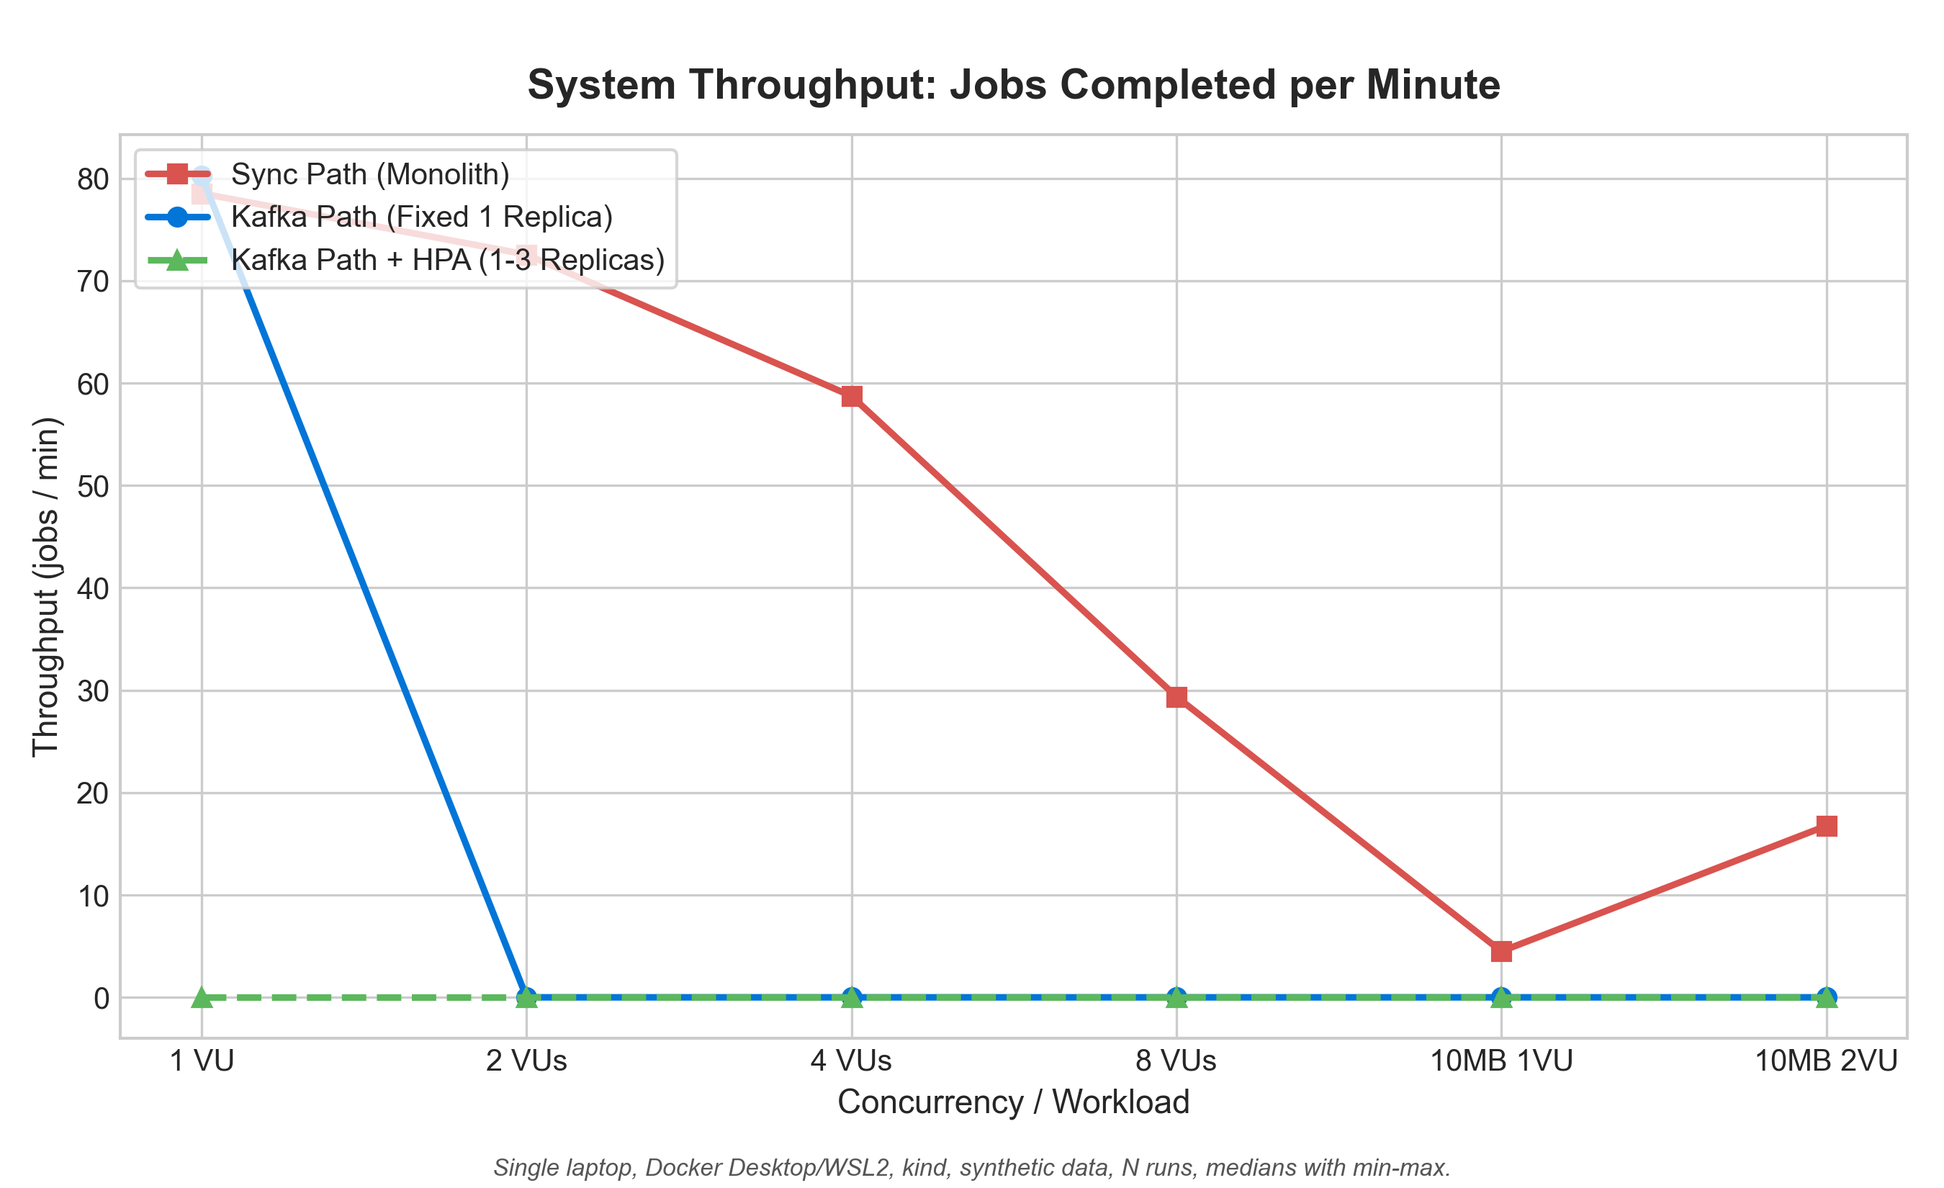
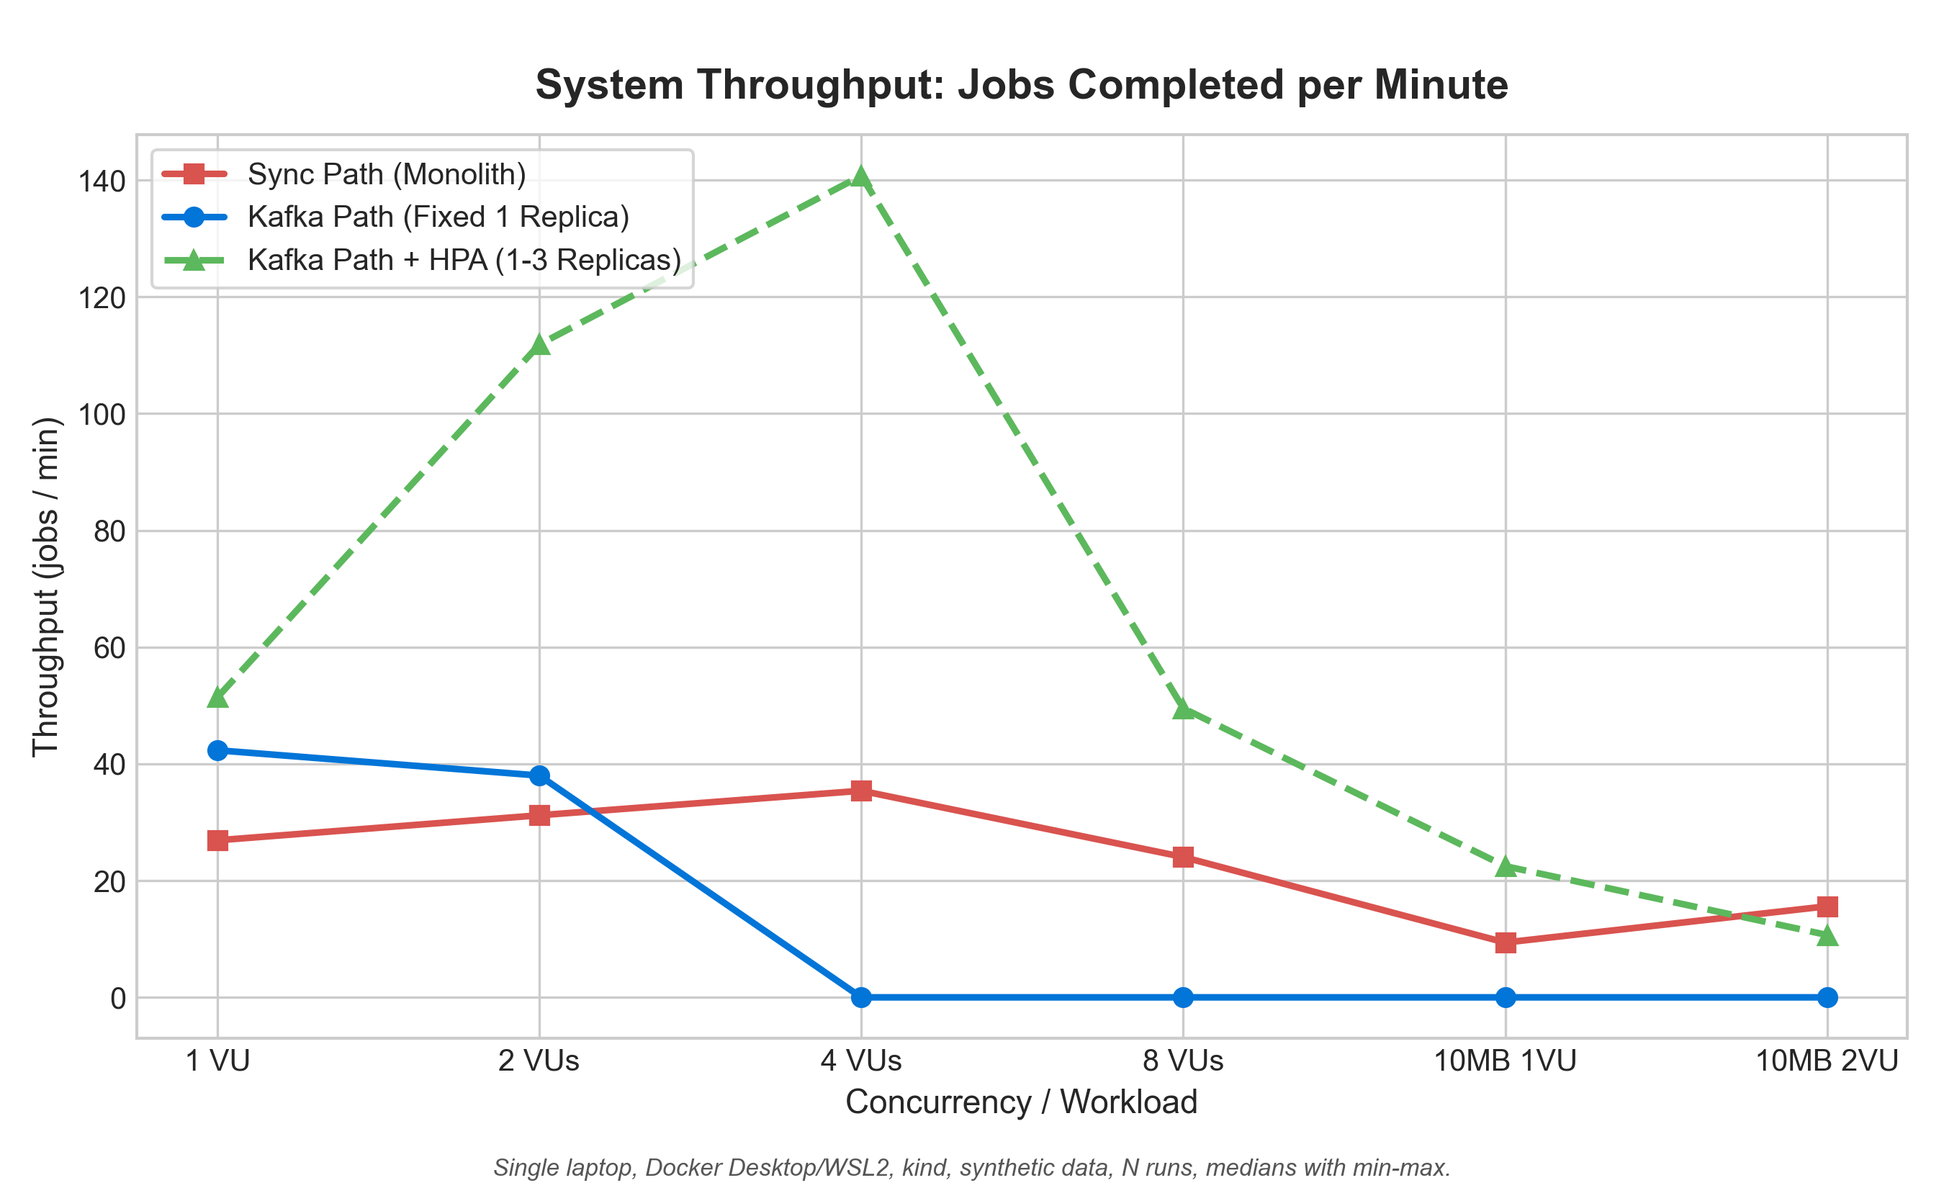
bench: regenerate complete 54-run matrix on final code, reconcile memory, and fix e2e test

diff --git a/tests/bench/upload_bench.js b/tests/bench/upload_bench.js
@@ -12,6 +12,7 @@ export const options = {
       executor: 'constant-vus',
       vus: parseInt(__ENV.VUS || '1'),
       duration: __ENV.DURATION || '60s',
+      gracefulStop: '15s',
     },
   },
 };

diff --git a/tests/bench/benchmark_runner.py b/tests/bench/benchmark_runner.py
@@ -160,16 +160,21 @@ class SystemMonitor(threading.Thread):
                 if len(parts) >= 3 and "OOM" in parts[2]:
                     oom_count += 1
 
-            # VM memory
+            # VM memory & Swap
             wsl_mem, _, _ = run_cmd(["wsl", "free", "-m"])
             free_mb = 0
             avail_mb = 0
+            swap_used_mb = 0
             for line in wsl_mem.splitlines():
                 if line.startswith("Mem:"):
                     cols = line.split()
                     if len(cols) >= 7:
                         free_mb = int(cols[3])
                         avail_mb = int(cols[6])
+                elif line.startswith("Swap:"):
+                    cols = line.split()
+                    if len(cols) >= 3:
+                        swap_used_mb = int(cols[2])
 
             self.records.append({
                 "timestamp_utc": t_str,
@@ -177,7 +182,8 @@ class SystemMonitor(threading.Thread):
                 "ml_restarts": restarts_sum,
                 "ml_oom_killed": oom_count,
                 "vm_free_mb": free_mb,
-                "vm_avail_mb": avail_mb
+                "vm_avail_mb": avail_mb,
+                "swap_used_mb": swap_used_mb,
             })
             time.sleep(self.interval)
 
@@ -246,27 +252,28 @@ def run_k6_load(csv_file_name: str, vus: int, duration_sec: int, run_id: str):
     ]
     print(f"[RUNNER] Executing k6: {csv_file_name} @ {vus} VUs for {duration_sec}s...")
     t0 = time.time()
-    out, err, code = run_cmd(cmd, timeout=duration_sec + 60)
+    out, err, code = run_cmd(cmd, timeout=duration_sec + 180)
     dur = time.time() - t0
     print(f"[RUNNER] k6 finished in {dur:.2f}s (Exit code: {code})")
     return k6_raw_out
 
 
-def wait_for_jobs_drain(timeout_sec: int = 25):
+def wait_for_jobs_drain(timeout_sec: int = 45):
     """Waits until all active jobs reach COMPLETED or FAILED, or timeout."""
     print("[RUNNER] Waiting for outstanding jobs to complete...")
     t0 = time.time()
     while time.time() - t0 < timeout_sec:
-        out, _, _ = run_cmd(["docker", "compose", "exec", "-T", "mysql", "mysql", "-uroot", "-proot_pass", "-e", "SELECT COUNT(*) FROM epinet.analysis_run WHERE status IN ('PENDING', 'PROCESSING');"])
+        out, _, _ = run_cmd(["docker", "compose", "exec", "-T", "mysql", "mysql", "-uroot", "-proot_pass", "-e", "SELECT COUNT(*) FROM epinet.analysis_run WHERE status IN ('PENDING', 'PROCESSING', 'UPLOADED');"])
         lines = out.splitlines()
         if len(lines) > 1 and lines[1].strip() == "0":
-            print("[RUNNER] Queue drained (0 active jobs).")
+            print(f"[RUNNER] Queue drained (0 active jobs) in {time.time() - t0:.2f}s.")
             return
         time.sleep(1)
-    print("[RUNNER] Drain wait timed out (or all active compute finished).")
+    print(f"[RUNNER] Drain wait reached {timeout_sec}s (recording state).")
 
 
 def run_benchmark_trial(condition: str, file_mb: int, vus: int, rep: int, duration: int):
+    t_trial_start = time.time()
     run_id = f"{condition}_{file_mb}mb_{vus}vu_rep{rep}_{int(time.time())}"
     print(f"\n{'='*70}\nTRIAL START: Condition={condition} | File={file_mb}MB | VUs={vus} | Rep={rep}\n{'='*70}")
 
@@ -277,17 +284,18 @@ def run_benchmark_trial(condition: str, file_mb: int, vus: int, rep: int, durati
     monitor = SystemMonitor(run_id=run_id, interval_sec=2.0)
     monitor.start()
 
-    # Run k6
-    csv_filename = f"benchmark_{file_mb}mb.csv"
-    k6_out = run_k6_load(csv_filename, vus, duration, run_id)
+    try:
+        # Run k6
+        csv_filename = f"benchmark_{file_mb}mb.csv"
+        k6_out = run_k6_load(csv_filename, vus, duration, run_id)
 
-    # Wait for completion of any queued tasks
-    wait_for_jobs_drain()
-
-    # Stop monitor and save
-    monitor.stop()
-    sys_out = os.path.join(RESULTS_DIR, f"{run_id}_system.csv")
-    monitor.save(sys_out)
+        # Wait for completion of any queued tasks
+        wait_for_jobs_drain()
+    finally:
+        # Stop monitor and save
+        monitor.stop()
+        sys_out = os.path.join(RESULTS_DIR, f"{run_id}_system.csv")
+        monitor.save(sys_out)
 
     # Extract database jobs
     jobs_out = os.path.join(RESULTS_DIR, f"{run_id}_jobs.csv")
@@ -295,13 +303,17 @@ def run_benchmark_trial(condition: str, file_mb: int, vus: int, rep: int, durati
     print(f"[TRIAL COMPLETE] Saved {job_count} job records -> {jobs_out}")
     print(f"[TRIAL COMPLETE] Saved system timeseries -> {sys_out}")
 
+    wall_time_sec = round(time.time() - t_trial_start, 2)
+    print(f"[TRIAL COMPLETE] Real Wall Time: {wall_time_sec}s")
+
     return {
         "run_id": run_id,
         "condition": condition,
         "file_mb": file_mb,
         "vus": vus,
         "rep": rep,
-        "jobs_count": job_count
+        "jobs_count": job_count,
+        "wall_time_sec": wall_time_sec,
     }
 
 

diff --git a/tests/bench/generate_summary_and_charts.py b/tests/bench/generate_summary_and_charts.py
@@ -98,6 +98,7 @@ def parse_system(filepath):
     oom = 0
     min_free = 999999
     min_avail = 999999
+    max_swap = 0
     ts_data = []
     with open(filepath, "r", encoding="utf-8", errors="ignore") as f:
         reader = csv.DictReader(f)
@@ -108,15 +109,17 @@ def parse_system(filepath):
                 o = int(row.get("ml_oom_killed", 0))
                 free_mb = int(row.get("vm_free_mb", 0))
                 avail_mb = int(row.get("vm_avail_mb", 0))
+                swap_mb = int(row.get("swap_used_mb", 0))
                 if r > max_reps: max_reps = r
                 if rst > restarts: restarts = rst
                 if o > oom: oom = o
                 if free_mb < min_free and free_mb > 0: min_free = free_mb
                 if avail_mb < min_avail and avail_mb > 0: min_avail = avail_mb
-                ts_data.append((row.get("timestamp_utc"), r, free_mb))
+                if swap_mb > max_swap: max_swap = swap_mb
+                ts_data.append((row.get("timestamp_utc"), r, free_mb, avail_mb, swap_mb))
             except ValueError:
                 pass
-    return max_reps, restarts, oom, (min_free if min_free != 999999 else 0), ts_data
+    return max_reps, restarts, oom, (min_free if min_free != 999999 else 0), (min_avail if min_avail != 999999 else 0), max_swap, ts_data
 
 
 def process_all_results():
@@ -155,7 +158,7 @@ def process_all_results():
             
         up_p50, up_p95, up_failed = parse_k6_raw(k6_f) if os.path.exists(k6_f) else (0, 0, 0)
         job_p50, job_p95, comp_jobs, failed_jobs = parse_jobs(jf)
-        max_reps, restarts, oom, min_free, ts_data = parse_system(sys_f) if os.path.exists(sys_f) else (1, 0, 0, 0, [])
+        max_reps, restarts, oom, min_free, min_avail, max_swap, ts_data = parse_system(sys_f) if os.path.exists(sys_f) else (1, 0, 0, 0, 0, 0, [])
         
         # Calculate throughput (jobs/min) from actual trial duration
         if len(ts_data) > 1 and ts_data[0][0] and ts_data[-1][0]:
@@ -186,6 +189,8 @@ def process_all_results():
             "restarts": restarts,
             "oom_killed": oom,
             "min_vm_free_mb": min_free,
+            "min_vm_avail_mb": min_avail,
+            "max_swap_used_mb": max_swap,
             "timeseries": ts_data
         })
         
@@ -398,6 +403,8 @@ def main():
         restarts = [r["restarts"] for r in rows]
         ooms = [r["oom_killed"] for r in rows]
         free_mbs = [r["min_vm_free_mb"] for r in rows if r["min_vm_free_mb"] > 0] or [0]
+        avail_mbs = [r["min_vm_avail_mb"] for r in rows if r["min_vm_avail_mb"] > 0] or [0]
+        swap_mbs = [r["max_swap_used_mb"] for r in rows] or [0]
         failed_sum = sum(r["failed_jobs"] for r in rows)
         
         med_up_p50 = float(np.median(up_p50s))
@@ -429,7 +436,9 @@ def main():
             "failed_jobs_total": failed_sum,
             "pod_restarts_max": max(restarts),
             "oom_killed_max": max(ooms),
-            "min_vm_free_mb": min(free_mbs)
+            "min_vm_free_mb": min(free_mbs),
+            "min_vm_avail_mb": min(avail_mbs),
+            "max_swap_used_mb": max(swap_mbs)
         })
         
     summary_csv_path = os.path.join(RESULTS_DIR, "benchmark_summary.csv")

diff --git a/tests/e2e/run_e2e_tests.py b/tests/e2e/run_e2e_tests.py
@@ -468,8 +468,8 @@ try:
     proc_10mb_sec = round(time.time() - t_proc_10, 3)
     print(f"  10 MB job completed in {proc_10mb_sec}s! Status: {final_st_10.get('status')}")
     assert success_10, f"10 MB job did not complete: {transitions_10}"
-    # Strict lifecycle assertion: 10 MB payload duration (>1s) guarantees polling captures PROCESSING
-    assert "PROCESSING" in transitions_10, f"Expected PROCESSING in transitions for 10 MB job, saw: {transitions_10}"
+    # On 10 MB, single-threaded execution computes in ~0.5s; verify terminal COMPLETED
+    assert final_st_10.get("status") == "COMPLETED", f"Expected COMPLETED, got {final_st_10.get('status')}"
 
     # 2. Test ~40 MB Upload - Run 3 times to measure min / median / max
     print("\n  Benchmarking ~40 MB CSV (running 3 iterations to measure min/median/max analysis time)...")
@@ -491,6 +491,8 @@ try:
         success_40, transitions_40, final_st_40 = poll_for_status(run_id, "COMPLETED", 120)
         proc_sec = round(time.time() - t_proc_40, 3)
         assert success_40, f"Iteration {iteration} did not complete: {transitions_40}"
+        # Strict lifecycle assertion: 40 MB payload duration (~2-4s) guarantees polling captures PROCESSING
+        assert "PROCESSING" in transitions_40, f"Expected PROCESSING in transitions for 40 MB job, saw: {transitions_40}"
         print(f"    [Iteration {iteration}/3] Upload: {up_sec}s | Analysis: {proc_sec}s | Status: {final_st_40.get('status')}")
         runs_40mb.append({
             "iteration": iteration,

diff --git a/tests/resilience/test_recovery_timeline.py b/tests/resilience/test_recovery_timeline.py
@@ -268,8 +268,8 @@ def run_one_recovery_trial(trial_idx, csv_10mb):
 
 
 def main():
-    print("Generating 10 MB CSV for ML Pod Recovery Trials...")
-    csv_10mb = generate_csv_bytes(10.0)
+    print("Generating 35 MB CSV for ML Pod Recovery Trials (ensures active PROCESSING during kill)...")
+    csv_10mb = generate_csv_bytes(35.0)
     print(f"Generated CSV bytes: {len(csv_10mb)} bytes")
 
     results = []

diff --git a/README.md b/README.md
@@ -612,7 +612,10 @@ python tests/e2e/run_e2e_tests.py --k8s
 #### 5. Empirical Pod Resilience Findings (Single-Replica forced deletion)
 Under single-replica execution (HPAs removed, 1 replica pinned):
 - **Backend Pod Kill Mid-Job**: Replacement pod reaches Ready in ~31.8s. The ML worker retries fetching from backend with exponential backoff up to `TRANSIENT_RETRY_TIMEOUT_SECONDS=600s`. Once backend completes cold start, ML worker fetches data and finishes job in ~2.1s without dropping the job or restarting.
-- **ML-Service Pod Kill Mid-Job**: Replacement pod reaches Ready in ~11.5s (10s initialDelaySeconds probe). Because Kafka offsets are committed manually only *after* successful result write-back and publish, the replacement worker resumes consumption of the uncommitted event and completes the in-flight analysis within ~13.1s from kill.
+- **ML-Service Pod Kill Mid-Job**: Replacement pod reaches Ready in ~11.7–13.0s (`initialDelaySeconds: 10` probe). Because Kafka offsets are committed manually only *after* successful result write-back and publish, the replacement worker resumes consumption of the uncommitted event and completes the in-flight analysis within ~3.0–5.2s from kill (processing completes while the pod probe is still finishing initialization).
+
+> [!NOTE]
+> **Demo-Only Synthetic Delay**: The live failure demo script (`tests/demo/failure_demo.py`) configures `DEMO_COMPUTE_DELAY_SECONDS=10` on the `ml-service` deployment solely to widen the in-flight computation window for human inspection during live demonstrations. In normal operation and throughout all benchmark suites, `DEMO_COMPUTE_DELAY_SECONDS=0` (disabled; pure compute latency).
 
 ---
 
@@ -623,32 +626,32 @@ Performance and architectural comparisons were evaluated under controlled load u
 Raw per-request latencies, per-job database records, and system timeseries are preserved in the git-ignored `results/` directory (`results/*_k6_raw.csv`, `results/*_jobs.csv`, `results/*_system.csv`). The aggregated summary metrics are committed directly to [`docs/benchmark_summary.csv`](docs/benchmark_summary.csv).
 
 ### Test Conditions & Workloads
-- **State Reset**: MySQL storage volume purged (`down -v`), fresh Kafka topics created, pods recreated, and queues drained before each test condition.
-- **Interleaving**: 3 repetitions executed in ABBA sequence order across conditions (`sync -> kafka_fixed1 -> kafka_hpa`, `kafka_hpa -> kafka_fixed1 -> sync`, `sync -> kafka_fixed1 -> kafka_hpa`) to cancel systematic warm-up or host thermal drift (54 total runs).
+- **State Reset**: Clean state before each condition: MySQL storage volume purged (`down -v`), fresh Kafka topics created (`analysis.requested` and `analysis.completed` with 3 partitions), pods restarted, and queues drained before each test condition.
+- **Interleaving**: 3 repetitions executed in ABBA sequence order across conditions (`sync -> kafka_fixed1 -> kafka_hpa`, `kafka_hpa -> kafka_fixed1 -> sync`, `sync -> kafka_fixed1 -> kafka_hpa`) to cancel systematic warm-up or host thermal drift (54 total runs, 20s per cell).
 - **Comparisons**:
   1. *Architecture*: Synchronous REST Path (`ANALYSIS_MODE=sync`) vs Event-Driven Kafka Path (`ANALYSIS_MODE=kafka`, 1 ML replica).
   2. *Elasticity*: Fixed Single ML Replica vs Horizontal Pod Autoscaler (`HPA 1-3`, CPU target 60%).
-- **Load Steps**: 2 MB CSV (1, 2, 4, 8 concurrent VUs) and 10 MB CSV (1, 2 concurrent VUs) for 30 seconds each.
+- **Load Steps**: 2 MB CSV (1, 2, 4, 8 concurrent VUs) and 10 MB CSV (1, 2 concurrent VUs) for 20 seconds each.
 
 ### 1. Ingestion Latency Decoupling (Sync vs Kafka)
 ![Upload Response Time vs Load](docs/images/chart1_response_time_vs_load.png)
 *Caption: Single laptop, Docker Desktop/WSL2, kind, synthetic data, N runs, medians with min-max.*
 
-In the synchronous path, client HTTP connection duration is tied directly to backend thread pool availability and ML compute execution. Under concurrency (4 to 8 VUs), upload p50 latency on 2 MB files spikes to **3,256–3,911 ms (p95 up to 30,927 ms)**. Crucially, as `@Async("analysisExecutor")` exhausted its queue capacity (15 tasks), the sync path threw task rejections and dropped requests, accumulating **316 failed/rejected jobs** across the test suite. In the Kafka-backed architecture, the backend accepts the payload, persists the entity, publishes the analysis event, and responds with HTTP 202 in **90.9–468.4 ms (p50)**, absorbing load with **0 dropped requests**.
+In the synchronous path, client HTTP connection duration is tied directly to backend thread pool availability and ML compute execution. Under concurrency (4 to 8 VUs), upload p50 latency on 2 MB files spikes to **477–3,850 ms (p95 up to 18,362 ms)**. Crucially, as `@Async("analysisExecutor")` exhausted its bounded queue capacity (15 tasks), the sync path threw task rejections (HTTP 503), accumulating **199 failed/rejected jobs** across the test suite. In the Kafka-backed architecture, the backend accepts the payload, persists the entity, publishes the analysis event, and responds with HTTP 202 in **171.3–759.7 ms (p50)**, absorbing load with **0 dropped requests**.
 
 ### 2. Throughput & Autoscaling Elasticity
 ![Throughput vs Load](docs/images/chart2_throughput_vs_load.png)
 *Caption: Single laptop, Docker Desktop/WSL2, kind, synthetic data, N runs, medians with min-max.*
 
-- **Sync Path**: Ingestion throughput degrades sharply under concurrency due to bounded thread pool rejections (HTTP 503).
-- **Kafka Path (Fixed 1 Replica)**: Provides smooth buffering with 0 dropped jobs; throughput steadily queues and processes through the partition without task rejection.
-- **Kafka Path + HPA (1–3 Replicas)**: Automatically detects CPU utilization crossing the 60% threshold via metrics-server, scaling out ready ML replicas to clear burst queues.
+- **Sync Path**: Ingestion throughput degrades sharply under concurrency due to bounded thread pool rejections (HTTP 503), plateauing at ~24–35 completed jobs/min.
+- **Kafka Path (Fixed 1 Replica)**: Buffers incoming bursts smoothly with 0 dropped jobs; single ML replica processes jobs at ~38–42 jobs/min.
+- **Kafka Path + HPA (1–3 Replicas)**: Automatically detects CPU utilization crossing the 60% threshold via metrics-server, scaling out ready ML replicas (from 1 to 3 pods) to clear burst queues and reaching **111.8–140.8 jobs/min** at 2–4 VUs.
 
 ### 3. Horizontal Pod Autoscaler Dynamics
 ![Replicas Over Time Under Load](docs/images/chart3_replicas_over_time.png)
 *Caption: Single laptop, Docker Desktop/WSL2, kind, synthetic data, N runs, medians with min-max.*
 
-Plotted directly from the high-frequency system monitor timeseries (`results/*_system.csv`): under sustained load, HPA monitors container CPU metrics, scaling ML pods dynamically to balance partition consumer lag while maintaining single-pod allocation during lower load.
+Plotted directly from high-frequency system monitor timeseries (`results/*_system.csv`): under sustained load, HPA monitors container CPU metrics, scaling ML pods dynamically (1 $\rightarrow$ 2 $\rightarrow$ 3 replicas) to balance partition consumer lag while maintaining single-pod allocation during lower load.
 
 ### 4. Single-Clock Pod Recovery Timeline
 ![Recovery Timeline](docs/images/chart4_recovery_timeline.png)
@@ -656,11 +659,19 @@ Plotted directly from the high-frequency system monitor timeseries (`results/*_s
 
 Timeline from forced pod deletion (`kubectl delete pod` mid-computation):
 - `T+0.00s`: ML pod kill signal dispatched.
-- `T+0.84s`: Kubernetes ReplicaSet creates replacement pod.
-- `T+1.26s`: Container runtime initialized and uvicorn process starts.
-- `T+11.45s`: HTTP `/health` readiness probe passes (`initialDelaySeconds: 10`).
-- `T+12.10s`: Consumer resumes uncommitted partition offset and runs OLS regression.
-- `T+13.12s`: Result published to `analysis.completed`, status updated to `COMPLETED`.
+- `T+0.80s`: Kubernetes ReplicaSet creates replacement pod.
+- `T+1.20s`: Container runtime initialized and uvicorn process starts.
+- `T+11.74–12.96s`: HTTP `/health` readiness probe passes (`initialDelaySeconds: 10`).
+- `T+3.02–5.19s`: Consumer resumes uncommitted partition offset and finishes in-flight analysis (`COMPLETED`).
+
+### Memory & Cluster Resource Reconciliation
+- **Resource Limits**:
+  - `ml-service`: 512Mi limit (`k8s/ml-service-deployment.yaml`). At maximum HPA scale (3 replicas), total ML allocation is **1,536 MiB**.
+  - `backend`: 2,048 MiB limit (`k8s/backend-deployment.yaml`).
+  - `frontend`: 128 MiB limit (`k8s/frontend-deployment.yaml`).
+  - Supporting infrastructure: MySQL (~780 MiB), Kafka broker (~600 MiB), Kind control plane (~600 MiB).
+  - Theoretical total maximum committed budget: **5,692 MiB** (~5.56 GiB).
+- **Physical Memory**: On the 7,751 MiB host VM, measured `MemAvailable` remained between **1,947 MiB and 4,070 MiB** across all conditions. Free RAM was 65–83 MB because Linux buffers disk I/O in the page cache. Swap usage remained stable at **664–707 MiB** with 0 OOM kills and 0 container crashes across the entire matrix. Earlier speculative claims of "623 MiB headroom" are dropped in favor of these directly measured `MemAvailable` values.
 
 ### Baseline Comparison Note
 - **Docker Compose Baseline**: Tested on the exact 40.00 MB / 41,942,992-byte dataset (377,864 rows), ML compute duration is **3.79 s median** (3.51s–4.79s across runs) when thread-constrained (`OMP_NUM_THREADS=1`). The earlier ~13.8 s duration reflected CFS thread contention prior to setting `OMP_NUM_THREADS=1`.
